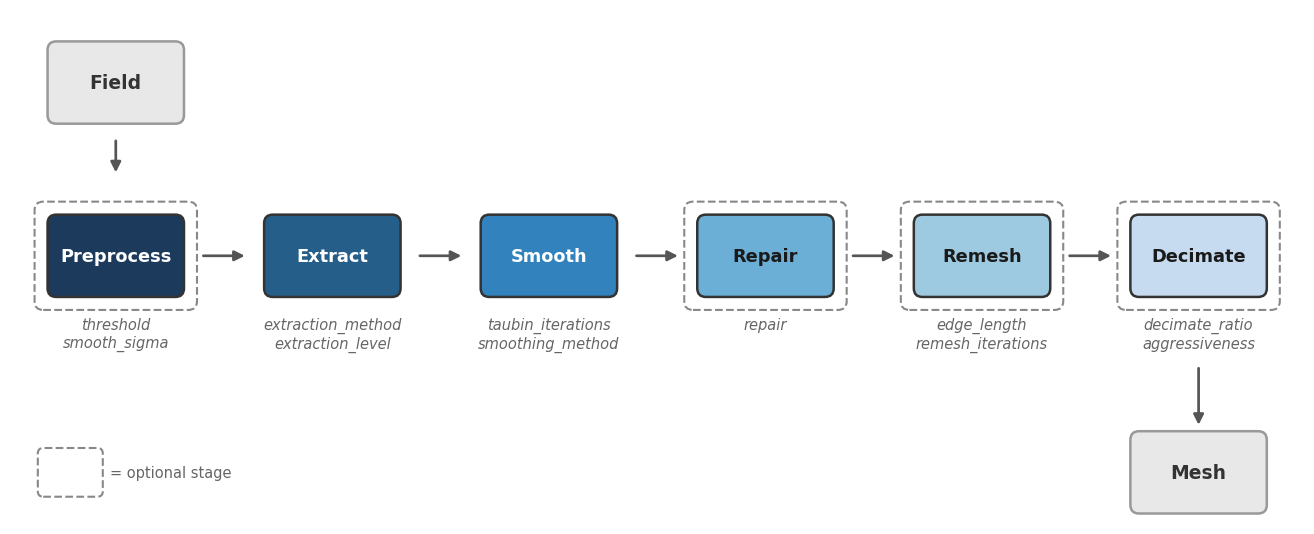
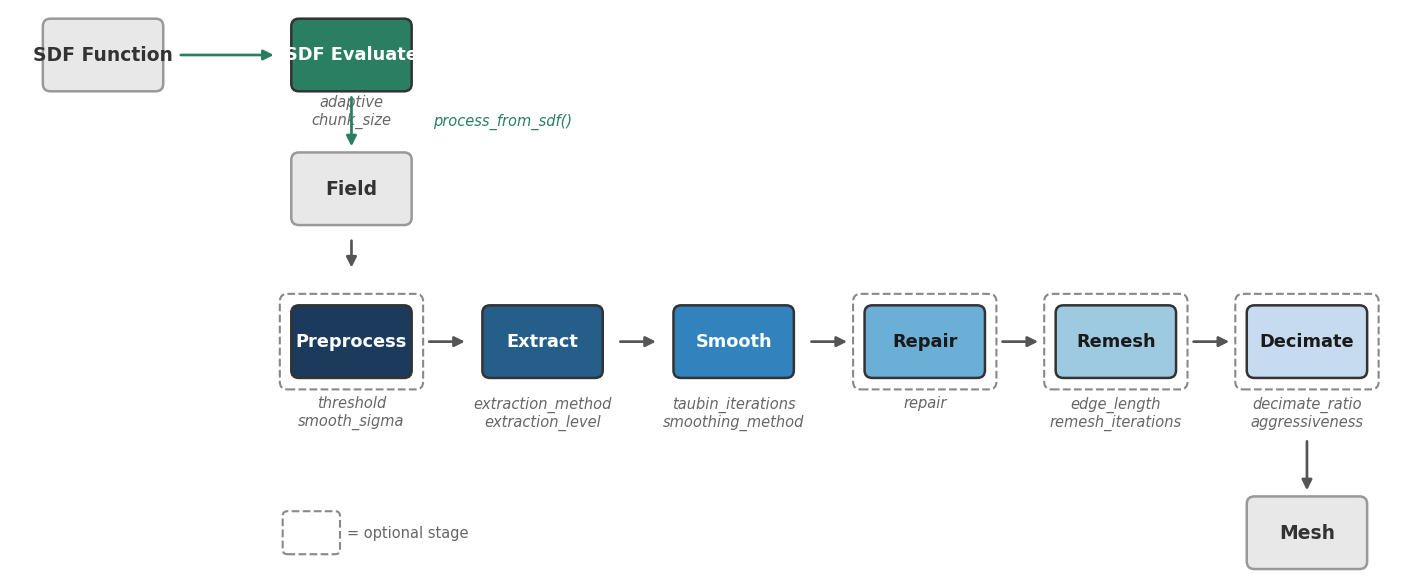
docs: add SDF functions guide, update pipeline diagram and cross-references
New guide page (sdf-functions.mdx) covers the universal SDF callable
protocol, wrapping PyTorch/ONNX/analytical models, uniform vs adaptive
evaluation, memory management, and neural SDF best practices.

Pipeline diagram updated with SDF Function → SDF Evaluate entry path
in teal, showing the alternative to grid-based input.

Cross-references added across quick-start, pipeline-overview,
field-types, extraction-methods, and landing page. API reference
expanded with adaptive evaluation section and octree examples.

Checked off 2 stale TODO items (extraction methods docs + interactive
MC vs DC comparison were already shipped).

diff --git a/scripts/generate_doc_images.py b/scripts/generate_doc_images.py
@@ -83,12 +83,12 @@ def _pv_screenshot(vertices, faces, color="#88BDE6", zoom=1.0, window_size=None,
 
 
 def gen_pipeline_diagram() -> None:
-    """Image 1: 3-row pipeline flow diagram with blue palette.
+    """Image 1: Pipeline flow diagram with blue palette.
 
-    Row 1: Field terminal (top-left)
+    Row 0 (top): SDF Function terminal + SDF Evaluate stage (alternative entry)
+    Row 1: Field terminal (grid-based entry, also receives SDF Evaluate output)
     Row 2: 6 pipeline stages with horizontal arrows
     Row 3: Mesh terminal (bottom-right)
-    Vertical arrows connect Field→row2 and row2→Mesh.
     Optional stages have a dashed outline offset around the solid box.
     """
     stages = list(STAGE_COLORS.keys())
@@ -106,13 +106,16 @@ def gen_pipeline_diagram() -> None:
     stage_x = [i * gap for i in range(len(stages))]
     total_w = stage_x[-1]
 
-    # Terminal positions
+    # Terminal and entry positions
     field_x, field_y = stage_x[0], row_gap * 0.8
+    sdf_fn_x = field_x - gap * 1.3     # SDF Function terminal: left of Field
+    sdf_eval_x = field_x - gap * 0.0   # SDF Evaluate: same x as Field
+    sdf_row_y = field_y + row_gap * 0.7  # SDF row: above Field
     mesh_x, mesh_y = stage_x[-1], -row_gap
 
-    fig, ax = plt.subplots(figsize=(12, 4.5))
-    ax.set_xlim(-1.0, total_w + 1)
-    ax.set_ylim(-row_gap - 0.5, row_gap + 0.3)
+    fig, ax = plt.subplots(figsize=(12, 5.5))
+    ax.set_xlim(-gap * 1.8, total_w + 1)
+    ax.set_ylim(-row_gap - 0.5, sdf_row_y + 0.5)
     ax.set_aspect("equal")
     ax.axis("off")
     fig.patch.set_facecolor(BG_COLOR)
@@ -127,9 +130,15 @@ def gen_pipeline_diagram() -> None:
     }
     optional_stages = {"Preprocess", "Repair", "Remesh", "Decimate"}
 
-    def _draw_box(x, y, label, is_terminal=False):
+    # SDF Evaluate stage color — teal to distinguish from the blue pipeline
+    sdf_eval_color = "#2A7F62"
+    sdf_eval_text = "white"
+
+    def _draw_box(x, y, label, is_terminal=False, custom_color=None, custom_text_color=None):
         if is_terminal:
             fc, ec, tc = "#E8E8E8", "#999999", "#333333"
+        elif custom_color:
+            fc, ec, tc = custom_color, "#333333", custom_text_color or "white"
         else:
             fc = STAGE_COLORS[label]
             ec = "#333333"
@@ -153,6 +162,13 @@ def gen_pipeline_diagram() -> None:
                 linewidth=1.0, linestyle="--",
             ))
 
+    # --- Row 0: SDF Function → SDF Evaluate (alternative entry) ---
+    _draw_box(sdf_fn_x, sdf_row_y, "SDF Function", is_terminal=True)
+    _draw_box(sdf_eval_x, sdf_row_y, "SDF Evaluate",
+              custom_color=sdf_eval_color, custom_text_color=sdf_eval_text)
+    ax.text(sdf_eval_x, sdf_row_y - box_hh - 0.12, "adaptive\nchunk_size",
+            ha="center", va="top", fontsize=7, color="#666666", fontstyle="italic")
+
     # --- Row 1: Field terminal ---
     _draw_box(field_x, field_y, "Field", is_terminal=True)
 
@@ -169,7 +185,23 @@ def gen_pipeline_diagram() -> None:
 
     # --- Arrows ---
     arrow_kw = dict(arrowstyle="-|>", color="#555555", lw=1.3)
+    sdf_arrow_kw = dict(arrowstyle="-|>", color="#2A7F62", lw=1.3)
     e = uniform_edge + arrow_gap
+
+    # SDF Function → SDF Evaluate (horizontal, teal)
+    ax.annotate("", xy=(sdf_eval_x - e, sdf_row_y),
+                xytext=(sdf_fn_x + e, sdf_row_y),
+                arrowprops=sdf_arrow_kw)
+
+    # SDF Evaluate → Field (vertical, teal)
+    ax.annotate("", xy=(field_x, field_y + box_hh + arrow_gap),
+                xytext=(sdf_eval_x, sdf_row_y - box_hh - arrow_gap),
+                arrowprops=sdf_arrow_kw)
+
+    # "or" label between SDF path and grid-data path
+    ax.text(field_x + box_hw + 0.3, field_y + (sdf_row_y - field_y) * 0.5,
+            "process_from_sdf()", ha="left", va="center",
+            fontsize=7, color="#2A7F62", fontstyle="italic")
 
     # Field → Preprocess (vertical)
     ax.annotate("", xy=(field_x, e * 0.95),
@@ -187,7 +219,7 @@ def gen_pipeline_diagram() -> None:
                 xytext=(mesh_x, mesh_y + box_hh + arrow_gap + 0.6),
                 arrowprops=arrow_kw)
 
-    # --- Legend (small dashed rectangle, bottom-left) ---
+    # --- Legend (bottom-left) ---
     leg_w = 0.5
     leg_h = 0.35
     leg_x = stage_x[0] - box_hw - dash_gap

diff --git a/docs/TODO.md b/docs/TODO.md
@@ -38,8 +38,8 @@
 - [x] Smart defaults — SDF fields auto-select DC, density fields keep MC
 - [x] DC/surfnets smoothing reduction — auto bilateral with 5 iterations
 - [ ] Extraction method comparison benchmark (MC vs DC vs SurfNets quality metrics)
-- [ ] Website docs for extraction methods (comparison table, usage guidance)
-- [ ] Interactive MC vs DC visual comparison on website
+- [x] Website docs for extraction methods (comparison table, usage guidance)
+- [x] Interactive MC vs DC visual comparison on website
 - [ ] Coordinate system contract documentation (all backends → grid index coords)
 
 ## Visualization Upgrades
